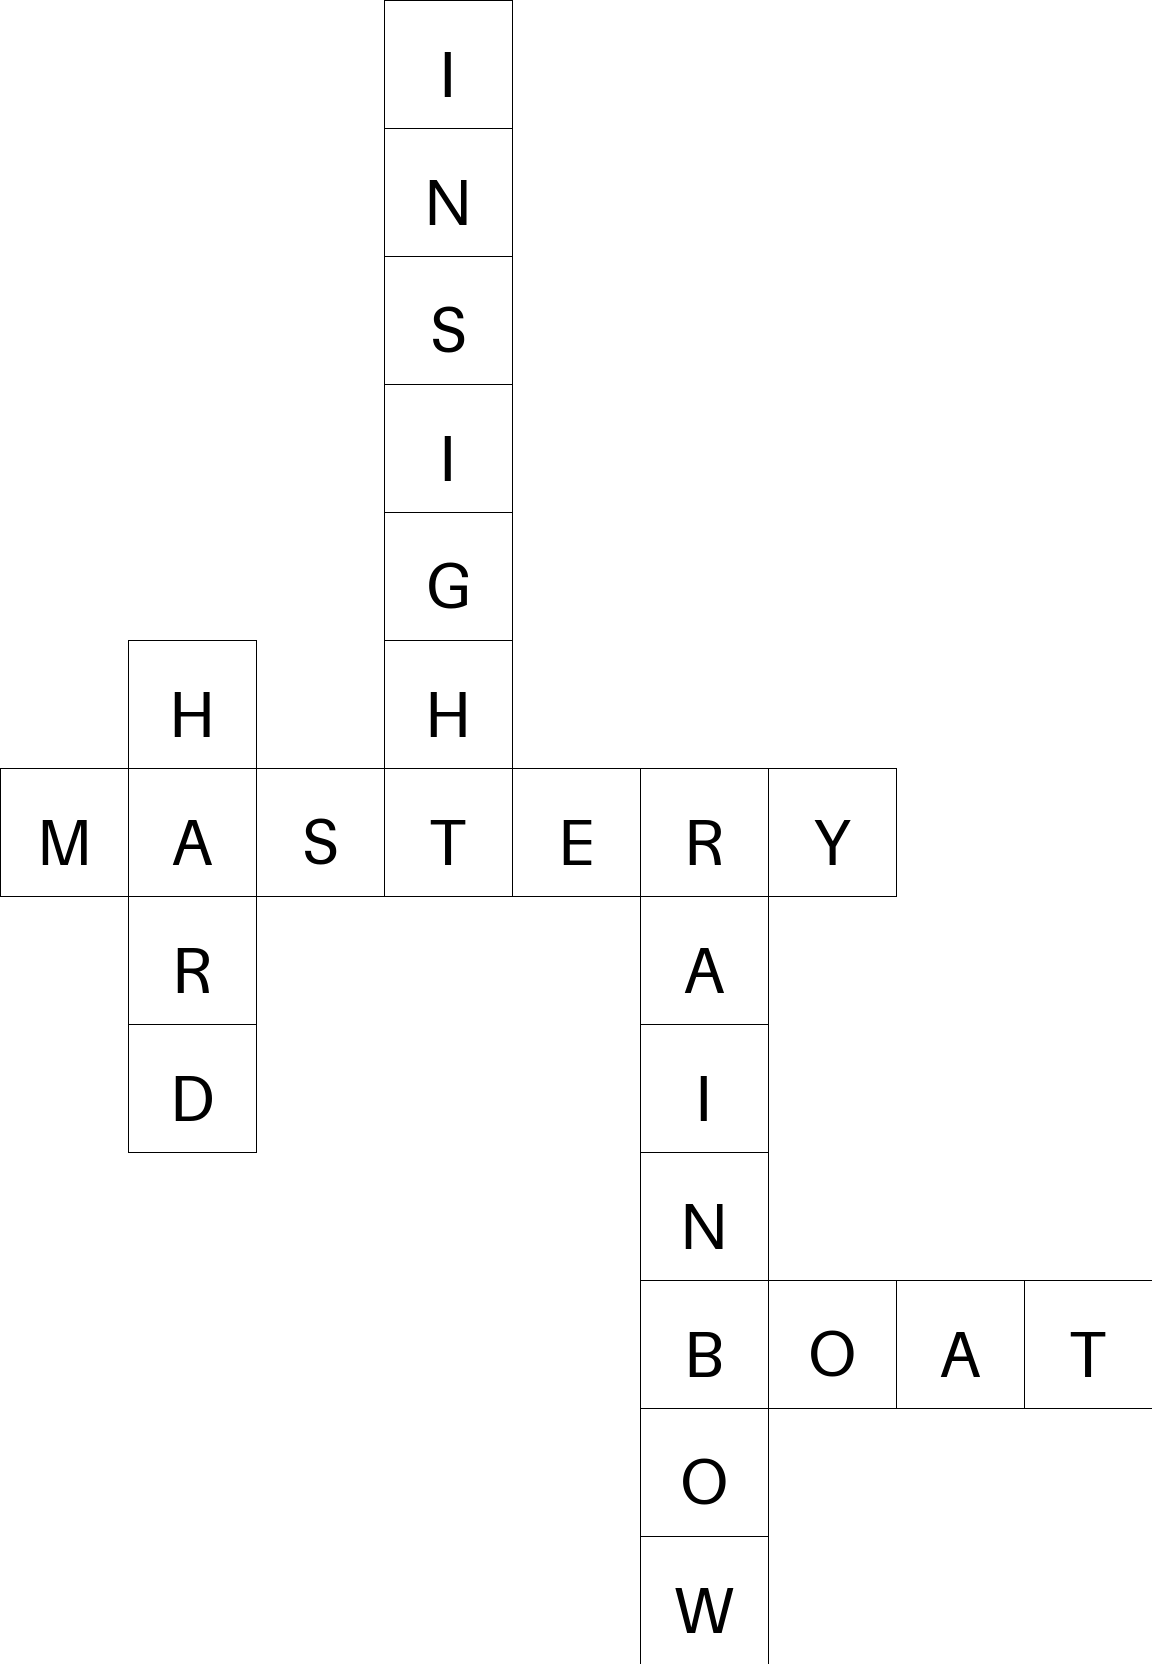
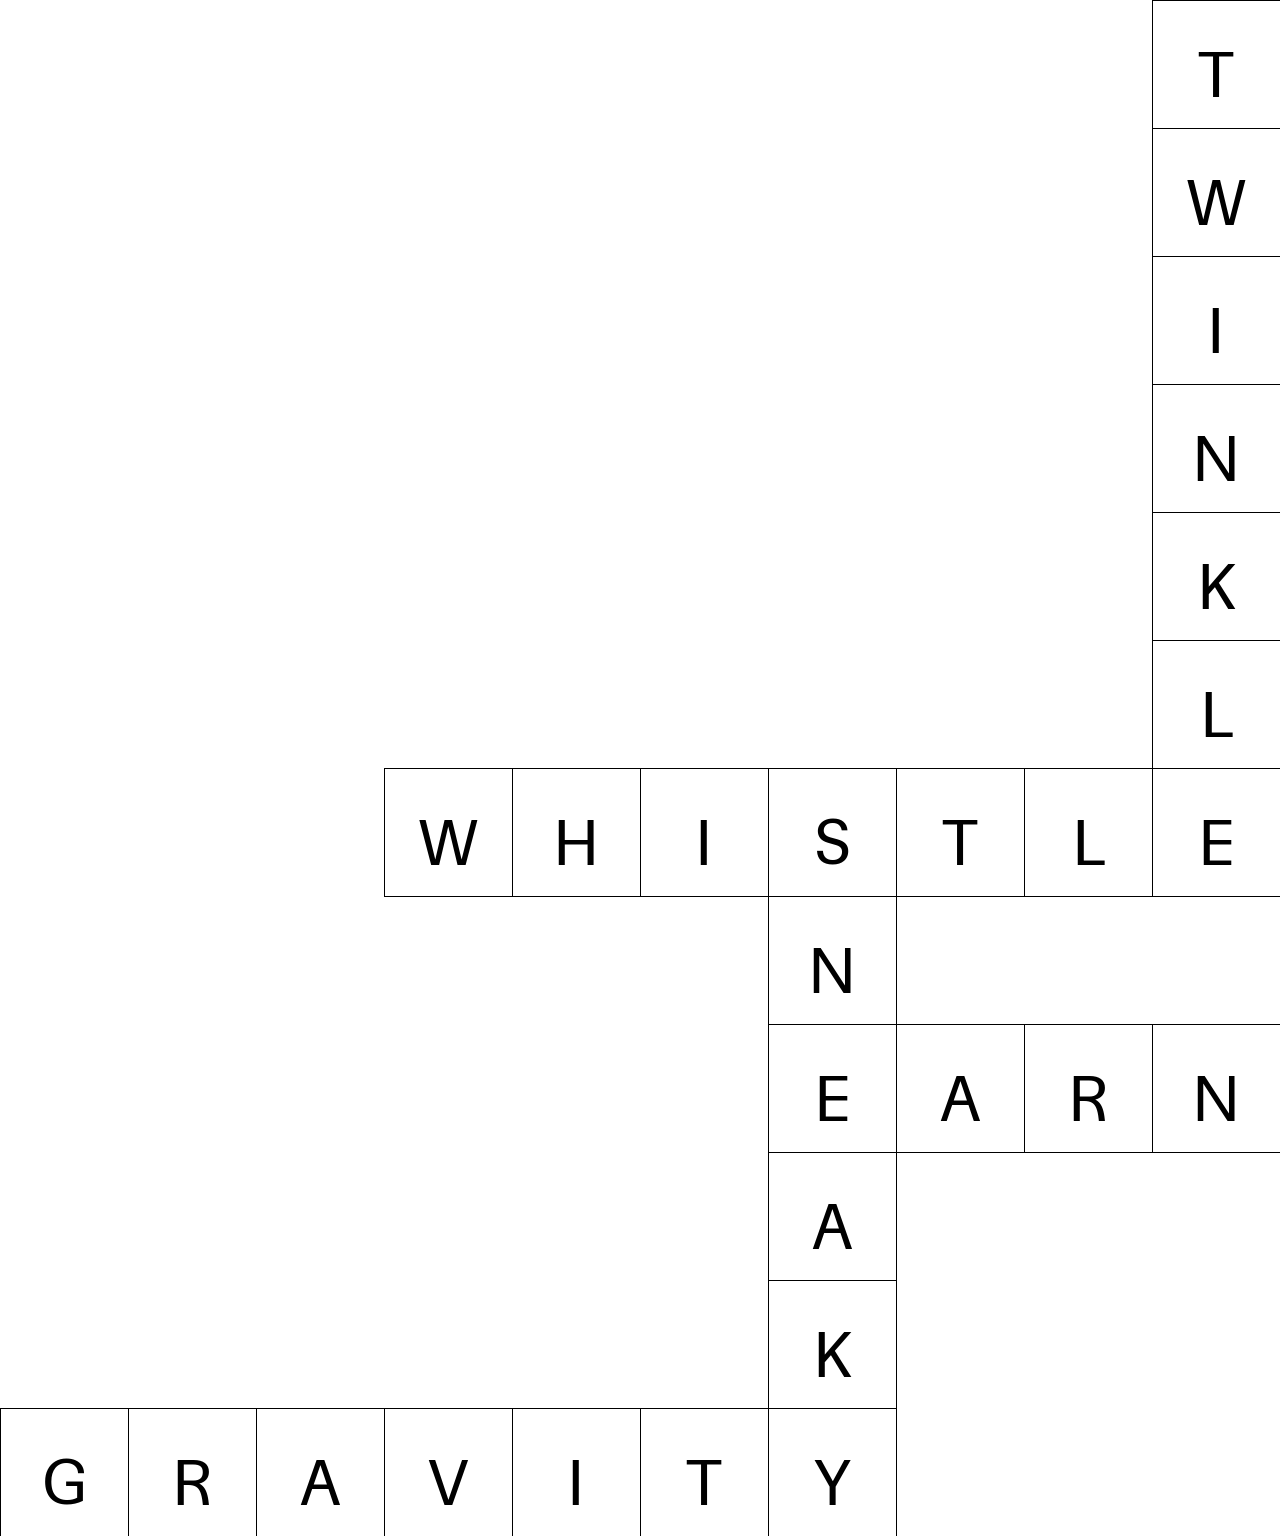
Bug fix

diff --git a/Class/grid.py b/Class/grid.py
@@ -127,7 +127,7 @@ class Grid():
           print(" ", end=" ")
       print()
   
-  def generate_grid(self, nb_words, nb_tries: int = 5):
+  def generate_grid(self, nb_words, nb_tries: int = 100):
     """Generate a grid with random words
     :param nb_words: Number of words to add to the grid
     :param nb_tries: Number of tries to generate an optimal grid (default: 100)
@@ -136,9 +136,6 @@ class Grid():
     dictionary = Dictionary()
     words = dictionary.get_random_words(nb_words)
 
-    for word in words:
-      print(word)
-
     # Generate grids until we find an optimal one (with all words)
     # Or until we reach the maximum number of tries
     temp_grid = Grid()
@@ -146,9 +143,6 @@ class Grid():
     while not optimal_found and nb_tries > 0:
       temp_grid.reset()
       generate(temp_grid, words)
-      print(f"========= TRY {nb_tries} =========")
-      temp_grid.display_cli()
-      print(temp_grid.get_nb_words())
       if temp_grid.get_nb_words() == nb_words:
         optimal_found = True
       if temp_grid.get_nb_words() > self.get_nb_words():

diff --git a/Tools/grid_generator.py b/Tools/grid_generator.py
@@ -164,7 +164,7 @@ def generate(grid, words: list):
     raise ValueError("Words list must not be empty")
   
   words_copy = deepcopy(words)
-  sort_words_by_len(words_copy)
+  rd.shuffle(words_copy)
 
   grid.reset()
   grid.add_rows(INITIAL_GRID_SIZE)
@@ -172,11 +172,11 @@ def generate(grid, words: list):
 
   words_added = WordsAdded()
 
-  # Add the longest word to the grid (at the middle)
-  longest_word = words_copy.pop(0)
+  # Add the first word to the grid (at the middle)
+  first_word = words_copy.pop(0)
   direction = rd.choice(["horizontal", "vertical"])
-  grid.set_word(longest_word[0], INITIAL_GRID_SIZE // 2, INITIAL_GRID_SIZE // 2, direction)
-  words_added.add(longest_word[0], INITIAL_GRID_SIZE // 2, INITIAL_GRID_SIZE // 2, direction)
+  grid.set_word(first_word[0], INITIAL_GRID_SIZE // 2, INITIAL_GRID_SIZE // 2, direction)
+  words_added.add(first_word[0], INITIAL_GRID_SIZE // 2, INITIAL_GRID_SIZE // 2, direction)
 
 
   # Add the other words to the grid
